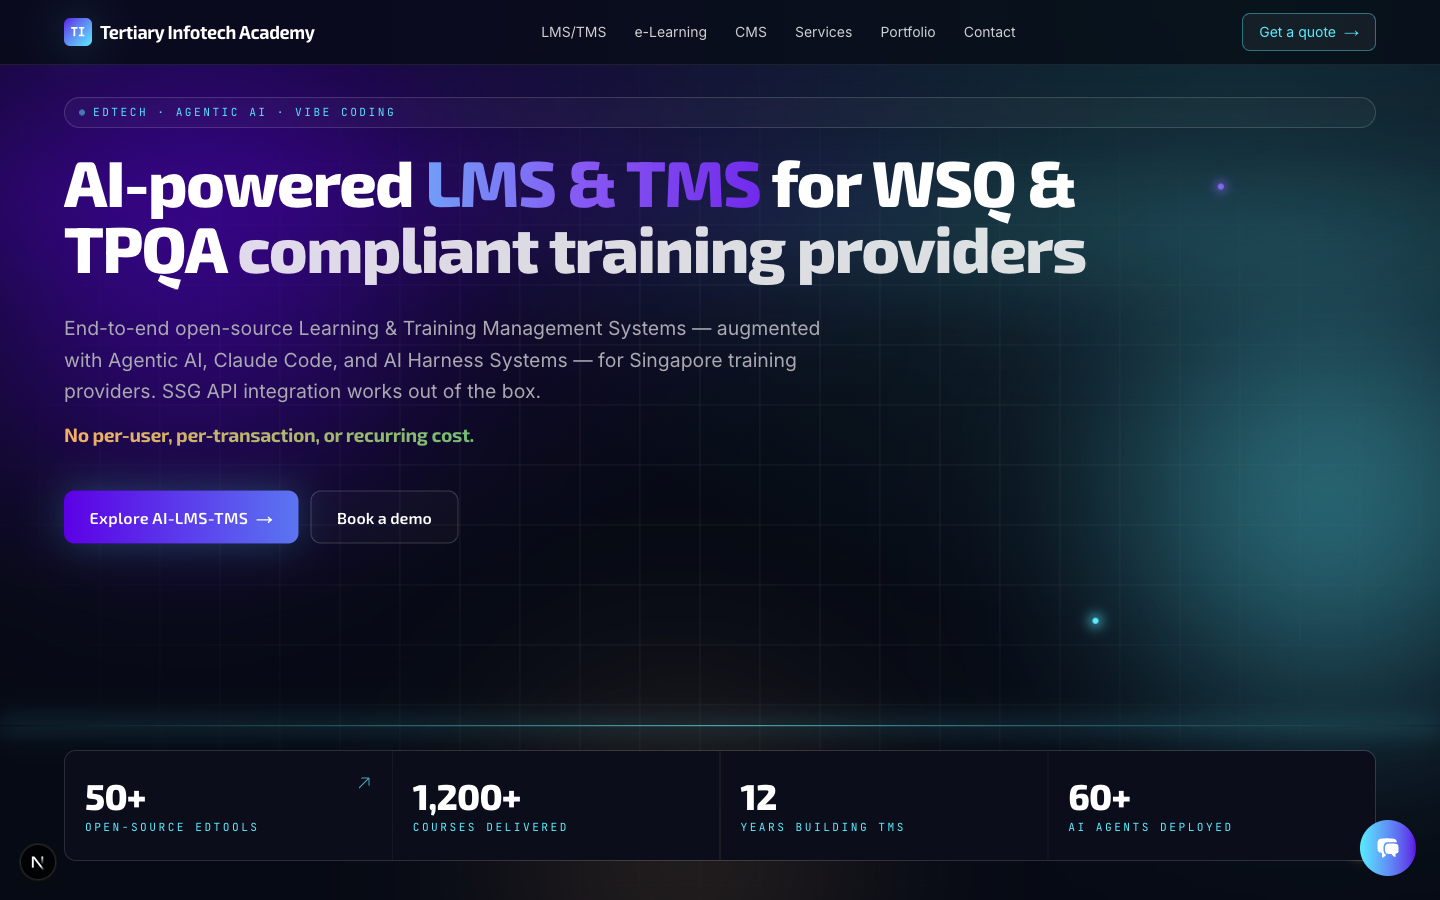
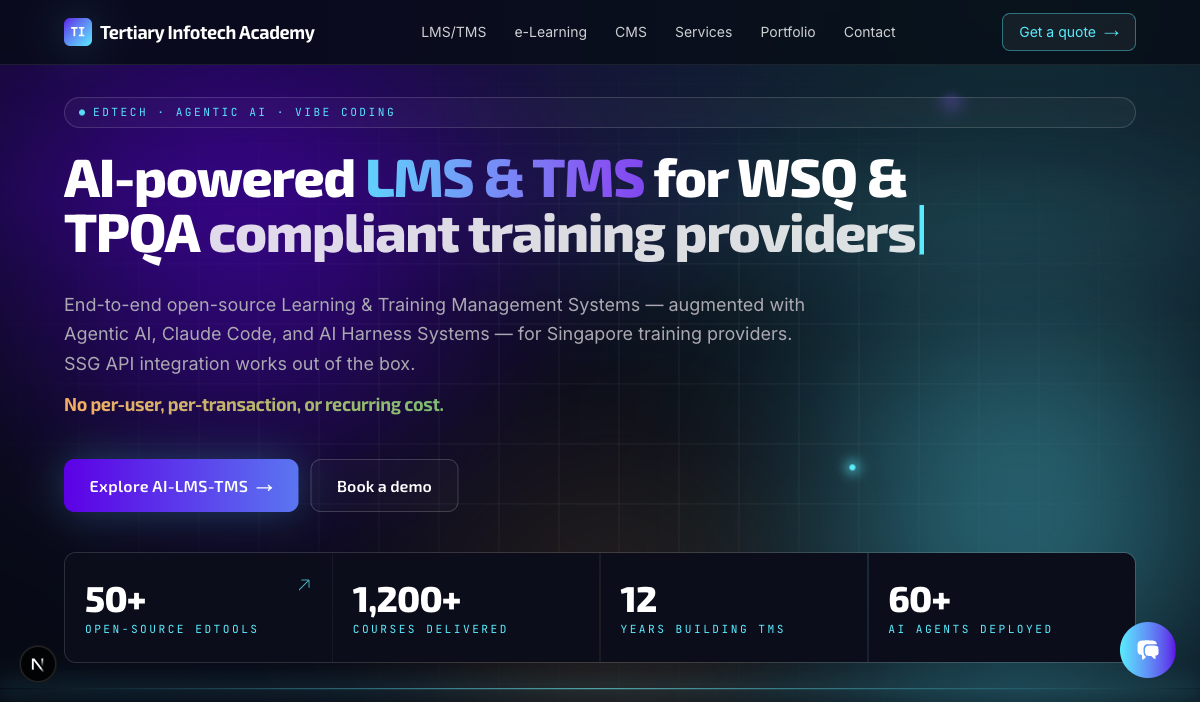
feat: add CMS showcase section, restore e-Learning CTAs, refresh screenshot
- New CMSShowcase section on the homepage (#cms anchor) — 12 features
  + 6-pillar grid (TipTap Editor, Claude AI Assist, NEMO Chatbot, Lead
  Capture, Encrypted Vault, WP Migration). Wires up the CMS nav link.
- Trim e-Learning feature list to the seven content/AI items and
  restore the Request a demo + Real Clients CTAs alongside View on
  GitHub.
- Refresh homepage screenshot in public/screenshot.png.
- Gitignore the .playwright-mcp/ temp dir.

diff --git a/src/components/sections/CMSShowcase.tsx b/src/components/sections/CMSShowcase.tsx
@@ -1,0 +1,158 @@
+import Link from "next/link";
+import { Container } from "@/components/layout/Container";
+import {
+  HiCheckCircle,
+  HiCpuChip,
+  HiPencilSquare,
+  HiSparkles,
+  HiInboxArrowDown,
+  HiLockClosed,
+} from "react-icons/hi2";
+
+const FEATURES: string[] = [
+  "TipTap rich editor — image upload, slash commands, alt text, draft / published / archived",
+  "Pages + Posts CRUD with Categories, Tags, and per-route SEO meta",
+  "Filterable + paginated admin tables (search, status, color-coded pills)",
+  "DB-driven header + footer menus — visual menu builder",
+  "Media library with server-side uploads to /public/uploads",
+  "Lead inbox — every contact-form submission emails sales via Gmail OAuth2",
+  "NEMO chatbot — Claude Agent SDK on your subscription OAuth token",
+  "Admin AI Assist — Draft, Rewrite, Summarize, Suggest SEO meta (one click)",
+  "Encrypted credentials vault — AES-256-GCM for all third-party tokens",
+  "WordPress migration — SQL dump → Postgres with image rewrite & 301 redirects",
+  "SEO out of the box — JSON-LD Article schema, dynamic sitemap & robots",
+  "Auth.js v5 with credentials provider, JWT sessions, middleware-protected /admin/*",
+];
+
+const PILLARS: Array<{
+  icon: React.ComponentType<{ className?: string }>;
+  label: string;
+  desc: string;
+}> = [
+  {
+    icon: HiPencilSquare,
+    label: "TipTap Editor",
+    desc: "Rich text · images · slash commands · drafts",
+  },
+  {
+    icon: HiSparkles,
+    label: "Claude AI Assist",
+    desc: "Draft posts · summarize · SEO meta — one click",
+  },
+  {
+    icon: HiCpuChip,
+    label: "NEMO Chatbot",
+    desc: "Configurable system prompt + FAQ · OAuth token",
+  },
+  {
+    icon: HiInboxArrowDown,
+    label: "Lead Capture",
+    desc: "Contact form → admin inbox + Gmail OAuth2 email",
+  },
+  {
+    icon: HiLockClosed,
+    label: "Encrypted Vault",
+    desc: "AES-256-GCM secrets · never returned to browser",
+  },
+  {
+    icon: HiCheckCircle,
+    label: "WP Migration",
+    desc: "Import SQL dump · rewrite images · 301 redirects",
+  },
+];
+
+export function CMSShowcase() {
+  return (
+    <section id="cms" className="relative py-14 overflow-hidden">
+      <div
+        className="glow-blob"
+        style={{
+          top: "-15%",
+          left: "10%",
+          width: 560,
+          height: 560,
+          background: "radial-gradient(circle, #5C00E5 0%, transparent 70%)",
+          opacity: 0.28,
+        }}
+      />
+      <Container className="relative">
+        <div className="grid lg:grid-cols-[1.05fr_0.95fr] gap-14 items-start">
+          <div>
+            <div className="kicker mb-5">[ AI-POWERED CMS ]</div>
+            <h2 className="font-display text-[clamp(2rem,4.5vw,3.5rem)] font-extrabold leading-[1.05]">
+              Full-stack{" "}
+              <span className="gradient-text">CMS with built-in Claude</span> — no
+              metered API.
+            </h2>
+            <p className="mt-6 text-(--color-muted) text-lg max-w-xl">
+              A self-hosted, production-grade content platform on Next.js 16, Postgres
+              and Drizzle. Bring your Claude subscription OAuth token and get a
+              chatbot, AI authoring, and a TipTap editor — no per-call billing, no
+              vendor lock-in.
+            </p>
+            <ul className="mt-8 space-y-2.5">
+              {FEATURES.map((f) => (
+                <li key={f} className="flex gap-3 text-sm">
+                  <HiCheckCircle className="text-(--color-cyan) shrink-0 mt-0.5 w-5 h-5" />
+                  <span className="text-white/85">{f}</span>
+                </li>
+              ))}
+            </ul>
+            <div className="mt-10 flex flex-wrap gap-3">
+              <Link href="#contact" className="btn-primary">
+                Request a demo
+              </Link>
+              <Link
+                href="https://github.com/alfredang/ai-cms"
+                target="_blank"
+                rel="noopener noreferrer"
+                className="btn-secondary"
+              >
+                View on GitHub →
+              </Link>
+            </div>
+          </div>
+
+          <div className="relative">
+            <div className="absolute -inset-2 rounded-2xl bg-gradient-to-br from-(--color-purple)/30 via-transparent to-(--color-cyan)/20 blur-2xl" />
+            <div className="relative glass p-6 sm:p-8 overflow-hidden">
+              <div className="absolute top-0 inset-x-0 h-px bg-gradient-to-r from-transparent via-(--color-cyan) to-transparent" />
+              <div className="flex items-center gap-3 mb-6">
+                <div className="w-10 h-10 rounded-lg bg-gradient-to-br from-(--color-purple) to-(--color-cyan) flex items-center justify-center">
+                  <HiCpuChip className="text-white w-5 h-5" />
+                </div>
+                <div>
+                  <div className="kicker">[ PLATFORM PILLARS ]</div>
+                  <div className="font-display font-bold text-lg">
+                    AI-Powered CMS
+                  </div>
+                </div>
+              </div>
+              <div className="grid sm:grid-cols-2 gap-3">
+                {PILLARS.map((p) => {
+                  const Icon = p.icon;
+                  return (
+                    <div
+                      key={p.label}
+                      className="px-4 py-3 rounded-lg bg-white/3 border border-white/8 hover:border-(--color-cyan)/50 transition group"
+                    >
+                      <div className="flex items-center gap-2.5 mb-1.5">
+                        <Icon className="w-5 h-5 text-(--color-purple-light) group-hover:text-(--color-cyan) transition" />
+                        <div className="font-display font-bold text-white text-sm">
+                          {p.label}
+                        </div>
+                      </div>
+                      <div className="text-[11px] leading-snug text-(--color-muted)">
+                        {p.desc}
+                      </div>
+                    </div>
+                  );
+                })}
+              </div>
+            </div>
+          </div>
+        </div>
+      </Container>
+    </section>
+  );
+}

diff --git a/src/components/sections/ELearningShowcase.tsx b/src/components/sections/ELearningShowcase.tsx
@@ -6,8 +6,6 @@ import {
   HiVideoCamera,
   HiSparkles,
   HiUserGroup,
-  HiShieldCheck,
-  HiCreditCard,
 } from "react-icons/hi2";
 
 const FEATURES: string[] = [
@@ -18,11 +16,6 @@ const FEATURES: string[] = [
   "8 lecture types — Video, Text, Quiz, PDF, SCORM, xAPI, Voice-Over Slides, Downloadable",
   "5 quiz types — MCQ, multi-select, true/false, drag-and-drop ordering, open-ended",
   "AI-assisted authoring — outlines, objectives, quizzes, voice-over text, metadata",
-  "Stripe payments with 4-way revenue split & marketer commissions",
-  "Auto-issued certificates with QR-verified PDFs (≥50% content + ≥80% assessment)",
-  "Immutable double-entry ledger with nightly invariant checks",
-  "Catalogue governance — Academy Admin approval workflow with audit trail",
-  "GDPR / PDPA compliant — data export, soft-deactivation, 7-year audit retention",
 ];
 
 const PILLARS: Array<{
@@ -46,19 +39,9 @@ const PILLARS: Array<{
     desc: "Claude-powered course outlines, quizzes & voice-over",
   },
   {
-    icon: HiCreditCard,
-    label: "Stripe Marketplace",
-    desc: "Paid courses · marketer commissions · auto invoicing",
-  },
-  {
-    icon: HiShieldCheck,
-    label: "Compliance Built-in",
-    desc: "GDPR/PDPA · double-entry ledger · 7-yr audit log",
-  },
-  {
     icon: HiAcademicCap,
-    label: "Auto Certificates",
-    desc: "QR-verified PDFs · 90-day access · gated by mastery",
+    label: "Flexible Lecture Types",
+    desc: "8 formats · 5 quiz types · drag-and-drop builder",
   },
 ];
 

diff --git a/src/app/page.tsx b/src/app/page.tsx
@@ -3,6 +3,7 @@ export const dynamic = "force-dynamic";
 import { Hero } from "@/components/sections/Hero";
 import { AILmsTmsShowcase } from "@/components/sections/AILmsTmsShowcase";
 import { ELearningShowcase } from "@/components/sections/ELearningShowcase";
+import { CMSShowcase } from "@/components/sections/CMSShowcase";
 import { EdToolsShowcase } from "@/components/sections/EdToolsShowcase";
 import { Services } from "@/components/sections/Services";
 import { WhyChooseUs } from "@/components/sections/WhyChooseUs";
@@ -19,6 +20,7 @@ export default function HomePage() {
         <Hero />
         <AILmsTmsShowcase />
         <ELearningShowcase />
+        <CMSShowcase />
         <EdToolsShowcase />
         <Services />
         <WhyChooseUs />